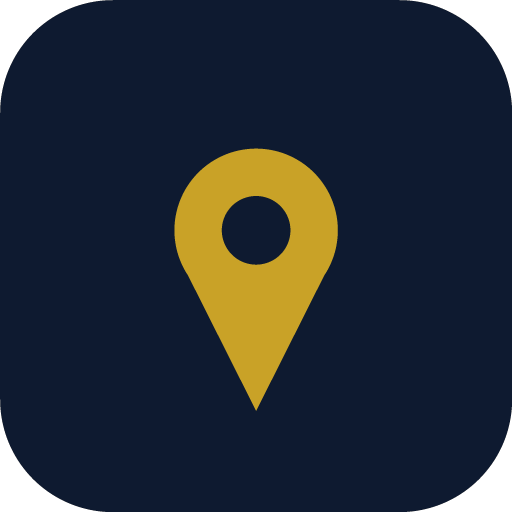
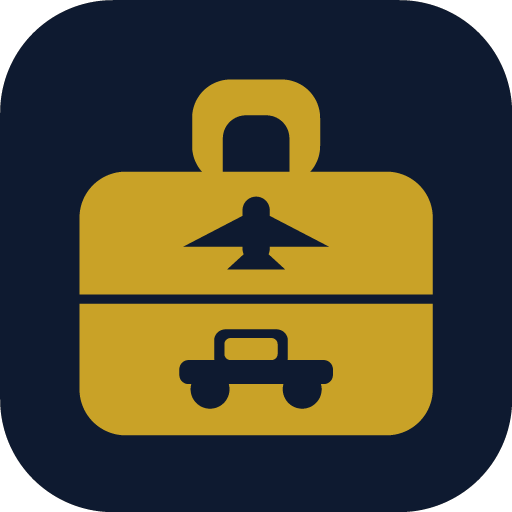
feat: เปลี่ยนไอคอนเป็นกระเป๋าเดินทางที่มีเครื่องบินกับรถอยู่ข้างใน
ตามที่ขอ — กระเป๋าเดินทางสีทองบนพื้นกรม เครื่องบินอยู่ช่องบน รถอยู่ช่องล่าง
มีเส้นซิปคั่นกลางให้ดูเป็นกระเป๋าจริง เปลี่ยนทั้งชุด ทั้ง favicon
ไอคอนตอนติดตั้งเป็นแอป และ apple-icon

วาดด้วยสมการล้วน (สี่เหลี่ยมมุมโค้ง วงกลม สามเหลี่ยม) ไม่ได้ใช้ไฟล์ต้นฉบับ
และไม่ได้ลงไลบรารีแต่งรูปเพิ่ม เครื่องบินกับรถเจาะเป็นสีกรมบนตัวกระเป๋าสีทอง
ส่วนกระจกรถเจาะกลับเป็นสีทองอีกชั้น ทำให้อ่านออกว่าเป็นรถ

รอบแรกรถออกมาเป็นก้อนกลม ๆ เหมือนเนินเขา เพราะใช้สามเหลี่ยมเป็นหลังคา
แล้วล้อจมอยู่ในตัวถังจนรวมเป็นชิ้นเดียว แก้เป็นห้องโดยสารทรงกล่อง
และดันล้อให้ยื่นพ้นตัวถังลงมา จึงเห็นเป็นวงกลมสองวงแยกจากตัวรถ

ลดรายละเอียดตามขนาด — favicon 16 กับ 32 ใช้กระเป๋าเปล่า เพราะเครื่องบินกับรถ
เหลือไม่กี่พิกเซลจนเละจนดูไม่ออกว่าเป็นอะไร ส่วน 48 ขึ้นไปใส่ครบ
เป็นเรื่องปกติของงานไอคอนที่แต่ละขนาดวาดไม่เหมือนกัน
maskable ย่อเหลือ 0.72 เพราะระบบครอบตัดได้ถึง 20% รอบด้าน

ตรวจแล้ว — เรนเดอร์เทียบที่ 16/32/48 และ 160 px ก่อนเลือกแบบ
เปิดดูไฟล์จริงทั้ง 512, maskable และ favicon 48 ว่าออกมาตามแบบ
ไฟล์ทั้ง 5 เสิร์ฟได้ 200 · manifest ยังชี้ไอคอนถูก · eslint/build ผ่าน

Changed region(s): [[0.1562, 0.1562, 0.8438, 0.875], [0.4375, 0.375, 0.5625, 0.4375]]

diff --git a/scripts/make-icons.js b/scripts/make-icons.js
@@ -1,17 +1,21 @@
 /**
- * สร้างไอคอน PNG สำหรับติดตั้งเป็นแอป
+ * สร้างไอคอนทั้งชุดของเว็บ — favicon.ico และ PNG สำหรับติดตั้งเป็นแอป
  *
  * ใช้: node scripts/make-icons.js
  *
- * เขียน PNG เองด้วย zlib ที่ Node มีอยู่แล้ว ไม่ต้องลงไลบรารีแต่งรูป
- * (โปรเจกต์นี้ตั้งใจไม่เพิ่ม dependency) รูปเป็นหมุดปักแผนที่สีทองบนพื้นกรม
- * ตามธีมของเว็บ วาดด้วยสมการวงกลมกับสามเหลี่ยม จึงคมทุกขนาดโดยไม่ต้องมีไฟล์ต้นฉบับ
+ * เขียน PNG กับ ICO เองด้วย zlib ที่ Node มีอยู่แล้ว ไม่ต้องลงไลบรารีแต่งรูป
+ * (โปรเจกต์นี้ตั้งใจไม่เพิ่ม dependency) รูปวาดด้วยสมการล้วน จึงคมทุกขนาด
+ * โดยไม่ต้องมีไฟล์ต้นฉบับ แก้สีหรือสัดส่วนแล้วรันใหม่ได้ทั้งชุด
+ *
+ * รูป: กระเป๋าเดินทางสีทองบนพื้นกรม มีเครื่องบินกับรถเจาะอยู่ข้างใน
  */
 const fs = require("fs");
 const zlib = require("zlib");
 
 const NAVY = [14, 26, 48]; // --color-canvas
 const GOLD = [201, 162, 39]; // --color-brand
+
+// ── ตัวเขียน PNG ────────────────────────────────────────────────────
 
 /** ตารางค่า CRC32 สำหรับตรวจสอบความถูกต้องของแต่ละ chunk ใน PNG */
 const CRC_TABLE = (() => {
@@ -39,28 +43,19 @@ function chunk(type, data) {
   return Buffer.concat([length, body, crc]);
 }
 
-/** rgba คือ Uint8Array ยาว width * height * 4 */
 function encodePng(width, height, rgba) {
   const ihdr = Buffer.alloc(13);
   ihdr.writeUInt32BE(width, 0);
   ihdr.writeUInt32BE(height, 4);
   ihdr[8] = 8; // bit depth
   ihdr[9] = 6; // color type RGBA
-  ihdr[10] = 0; // deflate
-  ihdr[11] = 0; // filter
-  ihdr[12] = 0; // ไม่ interlace
 
   // แต่ละแถวต้องมีไบต์บอกวิธี filter นำหน้า ใช้ 0 (ไม่ filter) ให้ง่ายไว้ก่อน
   const raw = Buffer.alloc(height * (width * 4 + 1));
   for (let y = 0; y < height; y += 1) {
     const rowStart = y * (width * 4 + 1);
     raw[rowStart] = 0;
-    rgba.copy
-      ? rgba.copy(raw, rowStart + 1, y * width * 4, (y + 1) * width * 4)
-      : Buffer.from(rgba.subarray(y * width * 4, (y + 1) * width * 4)).copy(
-          raw,
-          rowStart + 1,
-        );
+    rgba.copy(raw, rowStart + 1, y * width * 4, (y + 1) * width * 4);
   }
 
   return Buffer.concat([
@@ -71,83 +66,11 @@ function encodePng(width, height, rgba) {
   ]);
 }
 
-/** จุดอยู่ในสามเหลี่ยมไหม — ใช้เครื่องหมายของ cross product ทั้งสามด้าน */
-function inTriangle(px, py, [ax, ay], [bx, by], [cx, cy]) {
-  const sign = (x1, y1, x2, y2, x3, y3) =>
-    (x1 - x3) * (y2 - y3) - (x2 - x3) * (y1 - y3);
-  const d1 = sign(px, py, ax, ay, bx, by);
-  const d2 = sign(px, py, bx, by, cx, cy);
-  const d3 = sign(px, py, cx, cy, ax, ay);
-  const neg = d1 < 0 || d2 < 0 || d3 < 0;
-  const pos = d1 > 0 || d2 > 0 || d3 > 0;
-  return !(neg && pos);
-}
-
-/**
- * วาดหมุดปักแผนที่
- * @param size ขนาดด้านของรูป
- * @param inset สัดส่วนขอบที่เว้นไว้ (ไอคอนแบบ maskable ต้องเว้นให้ระบบครอบตัด)
- * @param round มุมโค้ง 0 = สี่เหลี่ยม, 1 = วงกลม
- */
-function drawIcon(size, { inset = 0.12, round = 0.22 } = {}) {
-  const SS = 4; // วาดใหญ่กว่าจริง 4 เท่าแล้วเฉลี่ยลง ขอบจะได้ไม่หยัก
-  const big = size * SS;
-  const acc = new Float64Array(size * size * 4);
-
-  const radius = round * big;
-  const pinScale = 1 - inset * 2;
-  const cx = big / 2;
-  const cy = big * (0.5 - 0.06 * pinScale);
-  const r = big * 0.19 * pinScale;
-  const tip = [cx, cy + big * 0.42 * pinScale];
-  const left = [cx - r * 0.86, cy + r * 0.5];
-  const right = [cx + r * 0.86, cy + r * 0.5];
-  const holeR = r * 0.42;
-
-  for (let by = 0; by < big; by += 1) {
-    for (let bx = 0; bx < big; bx += 1) {
-      // มุมโค้งของพื้นหลัง
-      const dxCorner = Math.max(radius - bx, bx - (big - radius), 0);
-      const dyCorner = Math.max(radius - by, by - (big - radius), 0);
-      const outside = Math.hypot(dxCorner, dyCorner) > radius;
-
-      let color = null;
-      if (!outside) {
-        const inCircle = Math.hypot(bx - cx, by - cy) <= r;
-        const inHole = Math.hypot(bx - cx, by - cy) <= holeR;
-        const inTip = inTriangle(bx, by, left, right, tip);
-        color = (inCircle || inTip) && !inHole ? GOLD : NAVY;
-      }
-
-      const px = Math.floor(bx / SS);
-      const py = Math.floor(by / SS);
-      const i = (py * size + px) * 4;
-      if (color) {
-        acc[i] += color[0];
-        acc[i + 1] += color[1];
-        acc[i + 2] += color[2];
-        acc[i + 3] += 255;
-      }
-    }
-  }
-
-  const out = Buffer.alloc(size * size * 4);
-  const samples = SS * SS;
-  for (let i = 0; i < size * size; i += 1) {
-    for (let c = 0; c < 4; c += 1) {
-      out[i * 4 + c] = Math.round(acc[i * 4 + c] / samples);
-    }
-  }
-  return encodePng(size, size, out);
-}
-
-
 /**
  * ประกอบไฟล์ .ico จาก PNG หลายขนาด
  *
  * .ico เป็นแค่กล่องใส่รูปหลายขนาดในไฟล์เดียว เบราว์เซอร์ยุคนี้อ่าน PNG
  * ที่ฝังอยู่ข้างในได้ จึงไม่ต้องแปลงเป็น BMP แบบสมัยก่อน
- * ใส่หลายขนาดเพราะแต่ละที่ใช้ไม่เท่ากัน — แท็บ 16, บุ๊กมาร์ก 32, ทางลัด 48
  */
 function encodeIco(images) {
   const header = Buffer.alloc(6);
@@ -159,11 +82,8 @@ function encodeIco(images) {
   let offset = 6 + images.length * 16;
   for (const { size, png } of images) {
     const e = Buffer.alloc(16);
-    // ขนาด 256 ต้องเขียนเป็น 0 ตามสเปก
-    e[0] = size >= 256 ? 0 : size;
+    e[0] = size >= 256 ? 0 : size; // ขนาด 256 ต้องเขียนเป็น 0 ตามสเปก
     e[1] = size >= 256 ? 0 : size;
-    e[2] = 0; // ไม่ใช้จานสี
-    e[3] = 0;
     e.writeUInt16LE(1, 4); // plane
     e.writeUInt16LE(32, 6); // 32 บิตต่อพิกเซล
     e.writeUInt32LE(png.length, 8);
@@ -175,34 +95,101 @@ function encodeIco(images) {
   return Buffer.concat([header, ...entries, ...images.map((i) => i.png)]);
 }
 
+// ── รูปทรงพื้นฐาน ใช้พิกัด 0..1 จะได้ไม่ผูกกับขนาดจริง ────────────────
+
+function roundRect(x, y, x0, y0, x1, y1, r) {
+  if (x < x0 || x > x1 || y < y0 || y > y1) return false;
+  const dx = Math.max(x0 + r - x, x - (x1 - r), 0);
+  const dy = Math.max(y0 + r - y, y - (y1 - r), 0);
+  return Math.hypot(dx, dy) <= r;
+}
+
+const circle = (x, y, cx, cy, r) => Math.hypot(x - cx, y - cy) <= r;
+
+/** จุดอยู่ในสามเหลี่ยมไหม — ใช้เครื่องหมายของ cross product ทั้งสามด้าน */
+function triangle(px, py, [ax, ay], [bx, by], [cx, cy]) {
+  const sign = (x1, y1, x2, y2, x3, y3) =>
+    (x1 - x3) * (y2 - y3) - (x2 - x3) * (y1 - y3);
+  const d1 = sign(px, py, ax, ay, bx, by);
+  const d2 = sign(px, py, bx, by, cx, cy);
+  const d3 = sign(px, py, cx, cy, ax, ay);
+  return !((d1 < 0 || d2 < 0 || d3 < 0) && (d1 > 0 || d2 > 0 || d3 > 0));
+}
+
+// ── ชิ้นส่วนของรูป ──────────────────────────────────────────────────
+
+/** เครื่องบินมองจากด้านบน หันขึ้น — ลำตัว ปีกกวาดหลัง และแพนหาง */
+function plane(x, y, cx, cy, s) {
+  return (
+    roundRect(x, y, cx - 0.028 * s, cy - 0.075 * s, cx + 0.028 * s, cy + 0.06 * s, 0.028 * s) ||
+    triangle(x, y, [cx - 0.15 * s, cy + 0.028 * s], [cx + 0.15 * s, cy + 0.028 * s], [cx, cy - 0.05 * s]) ||
+    triangle(x, y, [cx - 0.06 * s, cy + 0.075 * s], [cx + 0.06 * s, cy + 0.075 * s], [cx, cy + 0.02 * s])
+  );
+}
+
 /**
- * favicon วาดให้หมุดเต็มกรอบกว่าไอคอนแอป
+ * รถมองจากด้านข้าง — ตัวถัง ห้องโดยสาร และล้อ
  *
- * ไอคอนแอปเว้นขอบเยอะได้เพราะแสดงที่ 180px ขึ้นไป แต่ favicon ใช้จริงที่ 16px
- * ถ้าเว้นขอบเท่ากันหมุดจะเหลือไม่กี่พิกเซลจนดูไม่ออกว่าเป็นอะไร
- * รูตรงกลางก็ต้องใหญ่ขึ้นด้วย ไม่งั้นหายไปเลยตอนย่อ
+ * ล้อต้องยื่นพ้นตัวถังลงมา ไม่งั้นทั้งคันรวมเป็นก้อนเดียวแล้วดูเหมือนเนินเขา
+ * (แบบแรกที่ลองใช้สามเหลี่ยมเป็นหลังคาออกมาเป็นแบบนั้นพอดี)
  */
-function drawFavicon(size) {
-  const SS = 4;
+function car(x, y, cx, cy, s) {
+  return (
+    roundRect(x, y, cx - 0.15 * s, cy - 0.012 * s, cx + 0.15 * s, cy + 0.035 * s, 0.018 * s) ||
+    roundRect(x, y, cx - 0.082 * s, cy - 0.072 * s, cx + 0.062 * s, cy + 0.005 * s, 0.022 * s) ||
+    circle(x, y, cx - 0.09 * s, cy + 0.045 * s, 0.038 * s) ||
+    circle(x, y, cx + 0.09 * s, cy + 0.045 * s, 0.038 * s)
+  );
+}
+
+/** ช่องกระจกของรถ เจาะกลับเป็นสีทองให้อ่านออกว่าเป็นรถ ไม่ใช่ก้อนสี่เหลี่ยม */
+function carWindow(x, y, cx, cy, s) {
+  return roundRect(x, y, cx - 0.062 * s, cy - 0.055 * s, cx + 0.042 * s, cy - 0.012 * s, 0.012 * s);
+}
+
+/**
+ * กระเป๋าเดินทาง — ตัวกระเป๋าสีทอง เจาะเครื่องบินกับรถเป็นสีกรม
+ *
+ * @param withVehicles ใส่รถกับเครื่องบินไหม
+ *   ที่ขนาด 16-32 px รายละเอียดพวกนี้เละจนดูไม่ออก ใช้กระเป๋าเปล่าแทน
+ *   ซึ่งยังบอกได้ว่าเป็นเว็บอะไร
+ * @param scale ย่อ/ขยายทั้งภาพรอบจุดกึ่งกลาง — maskable ต้องเว้นขอบให้ระบบครอบตัด
+ * @param round มุมโค้งของพื้นหลัง 0 = สี่เหลี่ยมเต็ม
+ */
+function drawIcon(size, { withVehicles = true, scale = 1, round = 0.22 } = {}) {
+  const SS = 4; // วาดใหญ่กว่าจริง 4 เท่าแล้วเฉลี่ยลง ขอบจะได้ไม่หยัก
   const big = size * SS;
   const acc = new Float64Array(size * size * 4);
-  const radius = big * 0.22;
-  const cx = big / 2;
-  const cy = big * 0.4;
-  const r = big * 0.245;
-  const tip = [cx, cy + big * 0.5];
-  const left = [cx - r * 0.86, cy + r * 0.5];
-  const right = [cx + r * 0.86, cy + r * 0.5];
 
   for (let by = 0; by < big; by += 1) {
     for (let bx = 0; bx < big; bx += 1) {
-      const dx = Math.max(radius - bx, bx - (big - radius), 0);
-      const dy = Math.max(radius - by, by - (big - radius), 0);
-      if (Math.hypot(dx, dy) > radius) continue;
+      const x = bx / big;
+      const y = by / big;
+      if (round > 0 && !roundRect(x, y, 0, 0, 1, 1, round)) continue;
 
-      const d = Math.hypot(bx - cx, by - cy);
-      const onPin = (d <= r || inTriangle(bx, by, left, right, tip)) && d > r * 0.5;
-      const color = onPin ? GOLD : NAVY;
+      const gx = 0.5 + (x - 0.5) / scale;
+      const gy = 0.5 + (y - 0.5) / scale;
+
+      // หูหิ้ว — สี่เหลี่ยมโค้งวงนอกลบวงใน เอาเฉพาะส่วนเหนือตัวกระเป๋า
+      const handle =
+        gy < 0.345 &&
+        roundRect(gx, gy, 0.375, 0.155, 0.625, 0.36, 0.075) &&
+        !roundRect(gx, gy, 0.435, 0.225, 0.565, 0.4, 0.045);
+      const body = roundRect(gx, gy, 0.155, 0.335, 0.845, 0.85, 0.09);
+
+      let color = NAVY;
+      if (handle || body) {
+        color = GOLD;
+        if (body && withVehicles) {
+          if (plane(gx, gy, 0.5, 0.455, 0.95)) color = NAVY;
+          else if (car(gx, gy, 0.5, 0.715, 1)) {
+            color = carWindow(gx, gy, 0.5, 0.715, 1) ? GOLD : NAVY;
+          } else if (gy > 0.575 && gy < 0.593) {
+            // เส้นซิปกลางกระเป๋า คั่นสองช่องให้ดูเป็นกระเป๋าจริง
+            color = NAVY;
+          }
+        }
+      }
 
       const i = (Math.floor(by / SS) * size + Math.floor(bx / SS)) * 4;
       acc[i] += color[0];
@@ -217,33 +204,41 @@ function drawFavicon(size) {
   return encodePng(size, size, out);
 }
 
+// ── ไฟล์ที่ต้องสร้าง ────────────────────────────────────────────────
+
 const TARGETS = [
-  // ไอคอนปกติ เว้นขอบน้อยเพื่อให้หมุดเต็มกรอบ
-  { file: "public/icon-192.png", size: 192, opts: { inset: 0.08 } },
-  { file: "public/icon-512.png", size: 512, opts: { inset: 0.08 } },
-  // maskable ระบบจะครอบตัดได้ถึง 20% รอบด้าน ต้องเว้นที่เผื่อไว้
+  { file: "public/icon-192.png", size: 192, opts: {} },
+  { file: "public/icon-512.png", size: 512, opts: {} },
+  // maskable ระบบครอบตัดได้ถึง 20% รอบด้าน ต้องย่อรูปให้เนื้อหาอยู่ตรงกลาง
   // และใช้พื้นเต็มสี่เหลี่ยม เพราะมุมโค้งจะถูกครอบทับอยู่แล้ว
-  {
-    file: "public/icon-maskable-512.png",
-    size: 512,
-    opts: { inset: 0.22, round: 0 },
-  },
+  { file: "public/icon-maskable-512.png", size: 512, opts: { scale: 0.72, round: 0 } },
   // iOS ครอบมุมให้เอง จึงวาดเป็นสี่เหลี่ยมเต็ม
-  { file: "src/app/apple-icon.png", size: 180, opts: { inset: 0.1, round: 0 } },
+  { file: "src/app/apple-icon.png", size: 180, opts: { round: 0 } },
 ];
 
 for (const { file, size, opts } of TARGETS) {
   fs.writeFileSync(file, drawIcon(size, opts));
-  console.log(`✓ ${file} (${size}x${size}, ${(fs.statSync(file).size / 1024).toFixed(1)} KB)`);
+  console.log(
+    `✓ ${file} (${size}x${size}, ${(fs.statSync(file).size / 1024).toFixed(1)} KB)`,
+  );
 }
 
-// favicon ใส่ 3 ขนาดในไฟล์เดียว เบราว์เซอร์เลือกใช้ขนาดที่เหมาะเอง
-const FAVICON_SIZES = [16, 32, 48];
+/**
+ * favicon ใส่ 3 ขนาดในไฟล์เดียว เบราว์เซอร์เลือกใช้ขนาดที่เหมาะเอง
+ *
+ * 16 กับ 32 ใช้กระเป๋าเปล่า เพราะเครื่องบินกับรถเหลือไม่กี่พิกเซลจนเละ
+ * ส่วน 48 ใส่ครบได้ การลดรายละเอียดตามขนาดเป็นเรื่องปกติของงานไอคอน
+ */
+const FAVICON = [
+  { size: 16, opts: { withVehicles: false, scale: 1.1 } },
+  { size: 32, opts: { withVehicles: false, scale: 1.1 } },
+  { size: 48, opts: { scale: 1.1 } },
+];
 const ico = encodeIco(
-  FAVICON_SIZES.map((size) => ({ size, png: drawFavicon(size) })),
+  FAVICON.map(({ size, opts }) => ({ size, png: drawIcon(size, opts) })),
 );
 fs.writeFileSync("src/app/favicon.ico", ico);
 console.log(
-  `✓ src/app/favicon.ico (${FAVICON_SIZES.join(", ")} px, ` +
+  `✓ src/app/favicon.ico (${FAVICON.map((f) => f.size).join(", ")} px, ` +
     `${(ico.length / 1024).toFixed(1)} KB)`,
 );

diff --git a/scripts/README.md b/scripts/README.md
@@ -125,10 +125,16 @@ node scripts/validate-osm-places.js
 node scripts/make-icons.js
 ```
 
-เขียน PNG เองด้วย zlib ที่ Node มีอยู่แล้ว ไม่ต้องลงไลบรารีแต่งรูป
-รูปเป็นหมุดปักแผนที่สีทองบนพื้นกรมตามธีมเว็บ วาดด้วยสมการจึงคมทุกขนาด
-รันใหม่เมื่ออยากเปลี่ยนสีหรือรูปทรง
+รูปเป็น**กระเป๋าเดินทางสีทองบนพื้นกรม มีเครื่องบินอยู่ช่องบนและรถอยู่ช่องล่าง**
+วาดด้วยสมการล้วน (สี่เหลี่ยมมุมโค้ง วงกลม สามเหลี่ยม) จึงคมทุกขนาด
+ไม่ต้องมีไฟล์ต้นฉบับ แก้สีหรือสัดส่วนในไฟล์แล้วรันใหม่ได้ทั้งชุด
 
-favicon วาดคนละชุดกับไอคอนแอป — หมุดเต็มกรอบและรูใหญ่กว่า เพราะใช้จริงที่ 16px
-ถ้าเว้นขอบเท่าไอคอนแอปจะเหลือไม่กี่พิกเซลจนดูไม่ออกว่าเป็นอะไร
-ส่วน .ico เป็นแค่กล่องใส่ PNG หลายขนาด เขียนเองได้ไม่ต้องใช้เครื่องมือแปลง
+**ลดรายละเอียดตามขนาด** — favicon 16 กับ 32 ใช้กระเป๋าเปล่า เพราะเครื่องบิน
+กับรถเหลือไม่กี่พิกเซลจนเละ ส่วน 48 ขึ้นไปใส่ครบ
+ตอนออกแบบให้เรนเดอร์เทียบที่ขนาดจริงก่อนเสมอ อย่าตัดสินจากรูปใหญ่อย่างเดียว
+
+**ล้อของรถต้องยื่นพ้นตัวถังลงมา** ไม่งั้นทั้งคันรวมเป็นก้อนเดียวแล้วดูเหมือนเนินเขา
+(แบบแรกที่ลองใช้สามเหลี่ยมเป็นหลังคาออกมาเป็นแบบนั้นพอดี)
+
+`.ico` เป็นแค่กล่องใส่ PNG หลายขนาด เขียนเองได้ไม่ต้องใช้เครื่องมือแปลง
+
